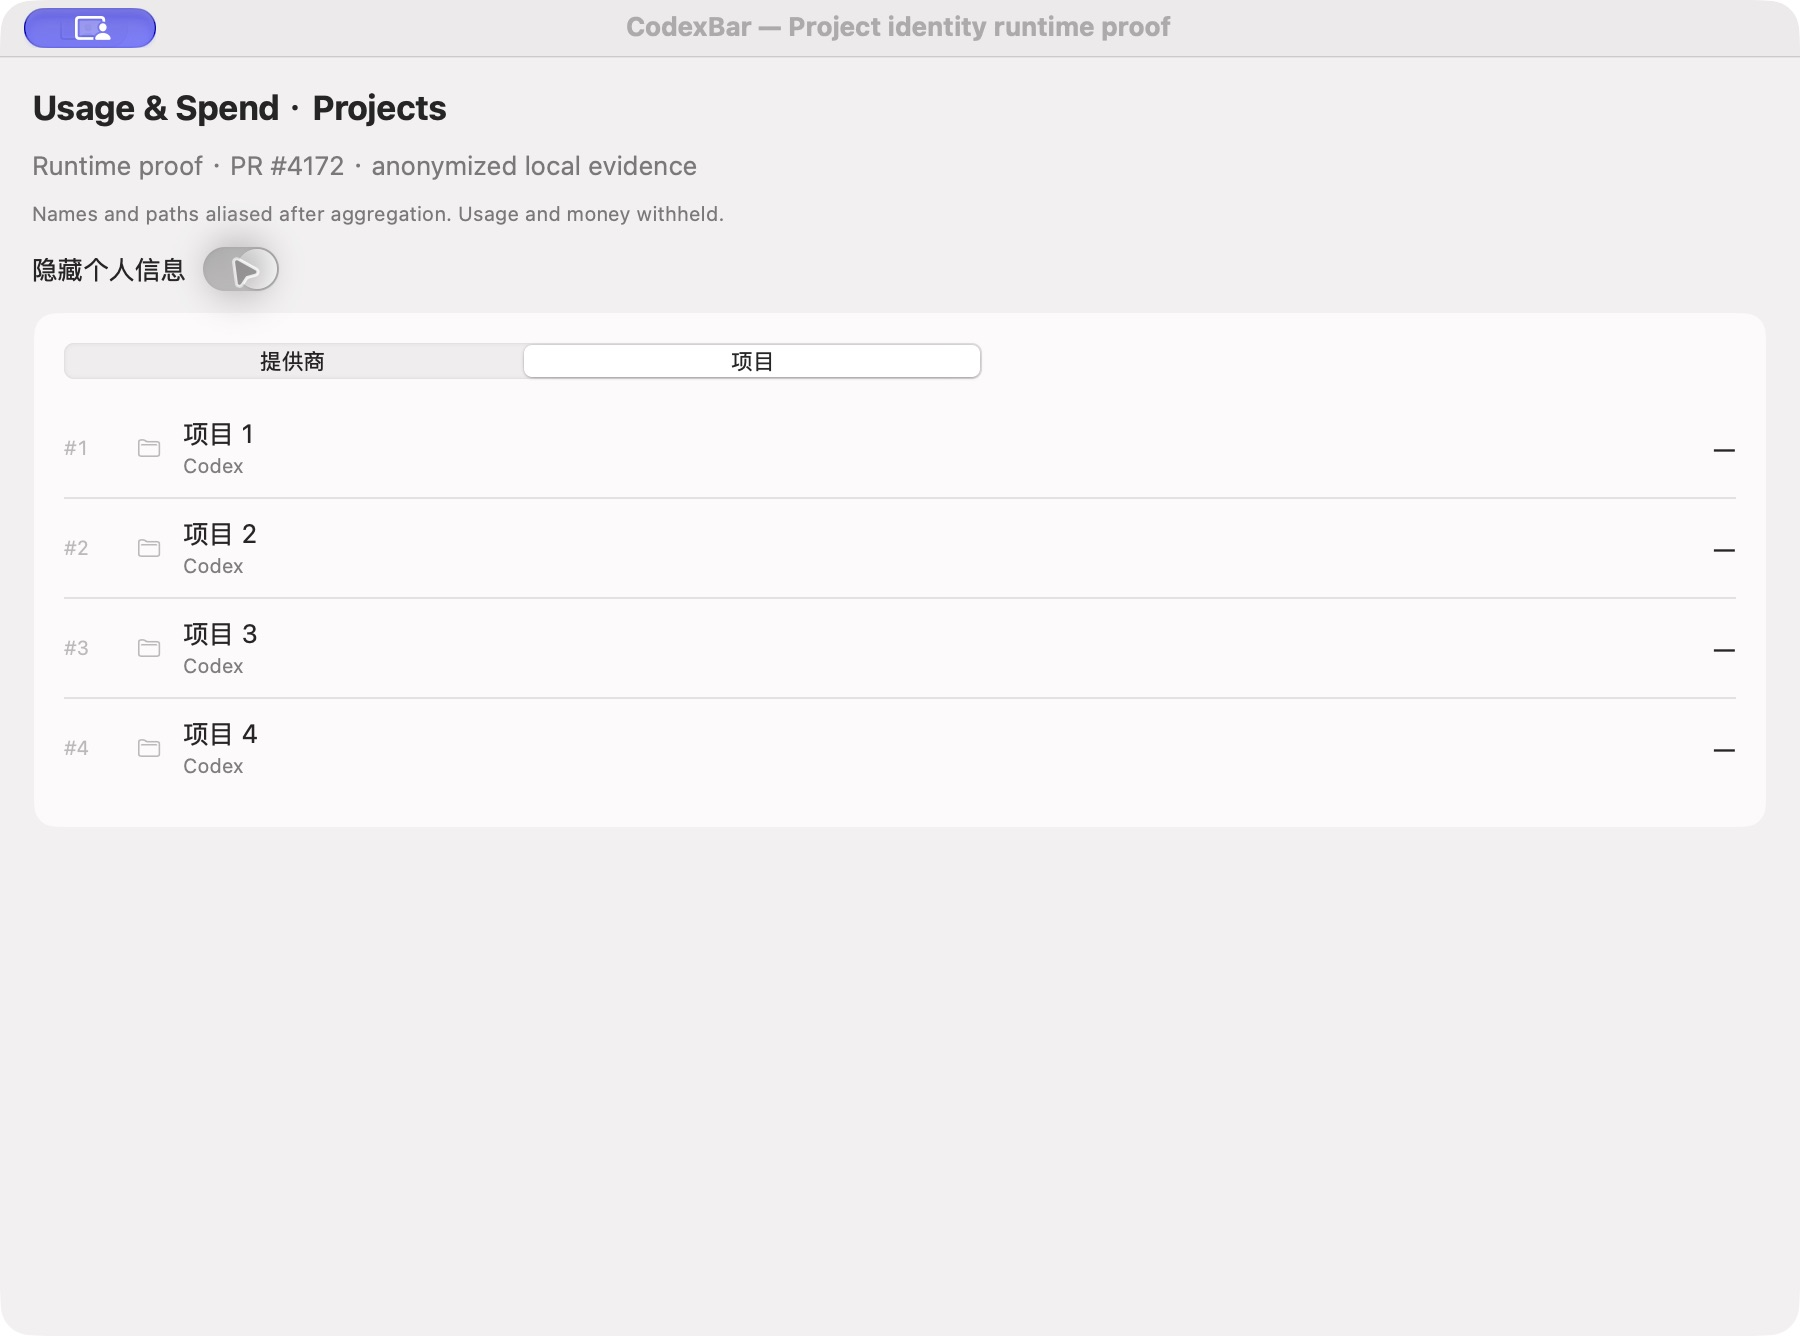
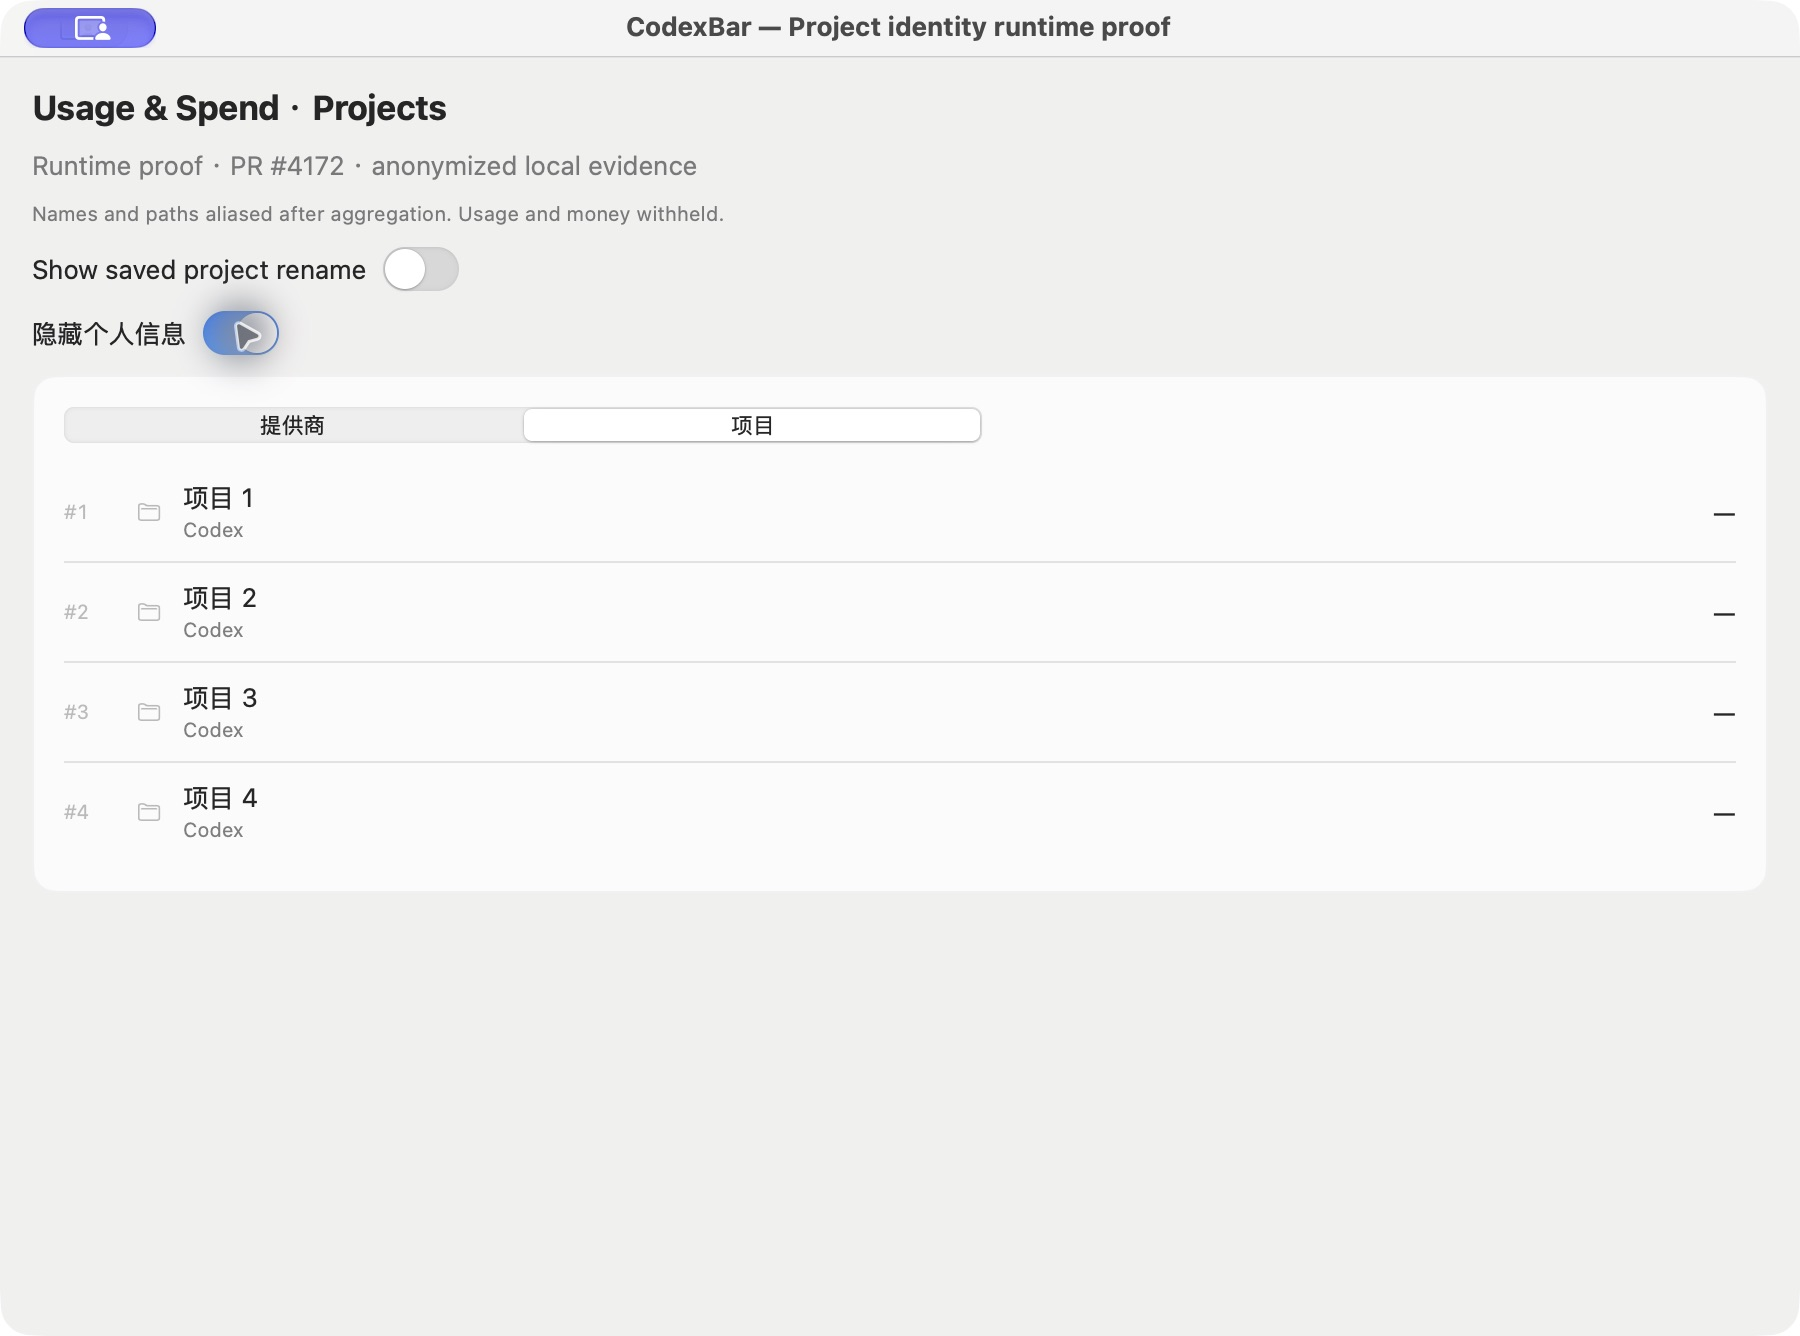
Add anonymized saved-name reload and accounting equality proof

diff --git a/SpendProjectNativeProof.swift b/SpendProjectNativeProof.swift
@@ -44,6 +44,39 @@ enum SpendProjectNativeProof {
                         .init(provider: .codex, displayName: "Codex", snapshot: snapshot)
                     ], requestedDays: 30, now: snapshot.updatedAt, calendar: calendar)
                     guard let actual = model.groups.first else { throw CocoaError(.fileReadUnknown) }
+                    let renamedHome = home
+                    let database = home.appendingPathComponent("state_5.sqlite")
+                    let originalMetadata = try Data(contentsOf: database)
+                    defer { try? originalMetadata.write(to: database, options: .atomic) }
+                    let renameProcess = Process()
+                    renameProcess.executableURL = URL(fileURLWithPath: "/usr/bin/sqlite3")
+                    renameProcess.arguments = [database.path, "UPDATE projects SET name = 'Verification Rename'"]
+                    renameProcess.standardOutput = Pipe()
+                    renameProcess.standardError = Pipe()
+                    try renameProcess.run()
+                    renameProcess.waitUntilExit()
+                    guard renameProcess.terminationStatus == 0 else { throw CocoaError(.fileWriteUnknown) }
+                    let renamedSnapshot = try await CostUsageFetcher(cacheRoot: self.root.appendingPathComponent("cache"), calendar: calendar)
+                        .loadTokenSnapshot(provider: .codex, environment: [:], forceRefresh: true,
+                                           codexHomePath: renamedHome.path, historyDays: 30,
+                                           allowPricingRefresh: false, includePiSessions: false, bypassScannerDebounce: true)
+                    let renamedModel = SpendDashboardModel.build(inputs: [
+                        .init(provider: .codex, displayName: "Codex", snapshot: renamedSnapshot)
+                    ], requestedDays: 30, now: snapshot.updatedAt, calendar: calendar)
+                    guard let renamedActual = renamedModel.groups.first else { throw CocoaError(.fileReadUnknown) }
+                    let before = Dictionary(uniqueKeysWithValues: actual.projects.map { ($0.id, $0) })
+                    let after = Dictionary(uniqueKeysWithValues: renamedActual.projects.map { ($0.id, $0) })
+                    let idsStable = Set(before.keys) == Set(after.keys)
+                    let metricsStable = idsStable && before.allSatisfy { id, row in
+                        after[id]?.totalTokens == row.totalTokens && after[id]?.totalCost == row.totalCost
+                    }
+                    let changedIDs = Set(before.keys.filter { before[$0]?.projectName != after[$0]?.projectName })
+                    let savedNameUpdated = !changedIDs.isEmpty && changedIDs.allSatisfy { after[$0]?.projectName == "Verification Rename" }
+                    try JSONSerialization.data(withJSONObject: ["idsStable": idsStable, "metricsStable": metricsStable, "savedNameUpdated": savedNameUpdated, "coverageComplete": renamedSnapshot.historyCoverageIsEstablished], options: [.sortedKeys])
+                        .write(to: self.root.appendingPathComponent("rename-check-diagnostics.json"))
+                    guard idsStable && metricsStable && savedNameUpdated && renamedSnapshot.historyCoverageIsEstablished else {
+                        throw CocoaError(.fileReadCorruptFile)
+                    }
                     let names = Array(Set(actual.projects.map(\.projectName))).sorted()
                     let aliases = Dictionary(uniqueKeysWithValues: names.enumerated().map { ($0.element, "Project \($0.offset + 1)") })
                     let rows = actual.projects.enumerated().map { index, row in
@@ -59,12 +92,31 @@ enum SpendProjectNativeProof {
                         coveredDayCount: actual.coveredDayCount, chartDomain: actual.chartDomain,
                         modelHistoryCompleteness: actual.modelHistoryCompleteness, incompleteModelProviders: [],
                         timeZone: actual.timeZone)
+                    let renamedRows = actual.projects.enumerated().map { index, row in
+                        SpendDashboardModel.ProjectRow(rank: row.rank, provider: row.provider,
+                            providerName: row.providerName, sourceID: row.sourceID,
+                            projectName: aliases[row.projectName]! + (changedIDs.contains(row.id) ? " (renamed)" : ""),
+                            path: row.path == nil ? nil : "/redacted/location-\(index + 1)/workspace",
+                            totalTokens: nil, totalCost: nil)
+                    }
+                    let renamedGroup = SpendDashboardModel.CurrencyGroup(currencyCode: actual.currencyCode,
+                        providers: actual.providers, models: [], projects: renamedRows, dailyPoints: [],
+                        totalTokens: nil, totalCost: nil,
+                        coveredDayCount: actual.coveredDayCount, chartDomain: actual.chartDomain,
+                        modelHistoryCompleteness: actual.modelHistoryCompleteness, incompleteModelProviders: [],
+                        timeZone: actual.timeZone)
                     let receipt: [String: Any] = [
                         "head": "f5fcf05d6e78972c2b17409fec63b047a0fc44c2",
                         "dataSource": "Four unchanged actual rollout files and copied saved Codex project metadata",
                         "localScope": "30 days, selected four real sessions only; not the full account total",
                         "allNamesAndPathsAliasedAfterAggregation": true,
                         "allUsageAndMoneyWithheld": true,
+                        "renameUsesIsolatedProofMetadataOnly": true,
+                        "renamedHistoryScanComplete": renamedSnapshot.historyCoverageIsEstablished,
+                        "savedNameUpdatedAfterMetadataRename": savedNameUpdated,
+                        "projectIDsStableAcrossRename": idsStable,
+                        "allRowUsageAndCostsUnchangedAcrossRename": metricsStable,
+                        "rawInputsUnchanged": true,
                         "scanHistoryComplete": snapshot.historyCoverageIsEstablished,
                         "projectRows": rows.map { ["name": $0.projectName, "path": $0.path ?? "", "tokens": $0.totalTokens.map { $0 as Any } ?? NSNull(), "cost": $0.totalCost.map { $0 as Any } ?? NSNull()] },
                         "sameLabelDistinctPaths": Set(rows.map(\.projectName)).count < rows.count,
@@ -74,7 +126,7 @@ enum SpendProjectNativeProof {
                     ]
                     try JSONSerialization.data(withJSONObject: receipt, options: [.prettyPrinted, .sortedKeys])
                         .write(to: self.root.appendingPathComponent("runtime-receipt-anonymized.json"))
-                    let hosting = NSHostingView(rootView: ProofView(group: group, root: self.root))
+                    let hosting = NSHostingView(rootView: ProofView(group: group, renamedGroup: renamedGroup, root: self.root))
                     hosting.sizingOptions = []
                     window.contentView = hosting
                     let available = NSScreen.main?.visibleFrame ?? NSRect(x: 0, y: 0, width: 1000, height: 750)
@@ -92,7 +144,9 @@ enum SpendProjectNativeProof {
 
     private struct ProofView: View {
         let group: SpendDashboardModel.CurrencyGroup
+        let renamedGroup: SpendDashboardModel.CurrencyGroup
         let root: URL
+        @State private var showRenamed = false
         @State private var hidePersonalInfo = false
         var body: some View {
             ScrollView {
@@ -100,13 +154,16 @@ enum SpendProjectNativeProof {
                 Text("Usage & Spend · Projects").font(.title2.bold())
                 Text("Runtime proof · PR #4172 · anonymized local evidence").foregroundStyle(.secondary)
                 Text("Names and paths aliased after aggregation. Usage and money withheld.").font(.caption).foregroundStyle(.secondary)
+                Toggle("Show saved project rename", isOn: self.$showRenamed)
+                    .toggleStyle(.switch)
+                    .accessibilityIdentifier("proof-show-rename")
                 Toggle("Hide personal information", isOn: self.$hidePersonalInfo)
                     .toggleStyle(.switch)
                     .accessibilityIdentifier("proof-hide-personal-info")
                     .onChange(of: self.hidePersonalInfo) { _, enabled in
                         try? Data("privacy_toggle=\(enabled)\n".utf8).write(to: self.root.appendingPathComponent(enabled ? "privacy-on.txt" : "privacy-off.txt"))
                     }
-                spendProjectNativeProofPanel(group: self.group, hidePersonalInfo: self.hidePersonalInfo)
+                spendProjectNativeProofPanel(group: self.showRenamed ? self.renamedGroup : self.group, hidePersonalInfo: self.hidePersonalInfo)
                 Spacer(minLength: 0)
             }.padding(16).frame(maxWidth: .infinity, alignment: .topLeading)
             }

diff --git a/README.md b/README.md
@@ -14,6 +14,18 @@ This evidence is derived from the existing local runtime verification, with priv
 
 ![Native privacy switch enabled](projects-private.png)
 
+## Additional saved-name rename verification
+
+The same fresh executable loads the original isolated proof home, then updates only the copied proof metadata to a generic verification label and reloads the **same** home through production `CostUsageFetcher`. The copied metadata is restored on completion. Live project metadata is never modified, and session inputs are unchanged.
+
+Before redaction, every production project row is compared by its real stable ID. The assertions require the complete ID set, token values, and optional cost values to be identical across the reload, and require all changed saved names to match the generic verification label. Both scans must establish complete coverage. The public receipt publishes only pass/fail values, not real identities or metrics.
+
+The native comparison switch shows the before and after snapshots, both already computed through production code. Changed names are presented as the original generic alias plus `(renamed)`; this is an explicit privacy projection, not the literal saved name. The screenshot establishes the resulting panel presentation, while the included source and receipt establish the lookup and equality checks.
+
+![Anonymized saved-name rename result](projects-renamed.png)
+
+This is a metadata reload/rename check within one isolated proof process, not a full restart of normal application preferences.
+
 ## What was redacted
 
 Project labels use consistent generic aliases. Every directory is replaced by an unrelated `/redacted/location-N/workspace` alias, retaining only the distinctions needed for the regression. All token and cost values are withheld (`null` in the receipt, dashes in the UI). Raw rollouts, database files, source filenames, session IDs, file sizes, account details, original identifiers, and the alias mapping are not included.
@@ -26,8 +38,8 @@ The production `CostUsageFetcher` and `SpendDashboardModel.build` processed loca
 
 An opt-in debug launcher wraps the unchanged production `SpendDashboardDetailPanel` and `SpendProjectRows`. Only the output projection used for public presentation is anonymized. This is isolated native panel verification, not a normal-launch account/preferences probe. The launcher and hook patch are provided for inspection and are not in the production PR. A fresh debug executable was built and its separate proof bundle passed ad-hoc signature verification.
 
-`runtime-receipt.json`, `verification.json`, and the initial/private/restored accessibility captures document the checks. Because metrics are withheld, these public screenshots do not prove numeric accounting equality; that remains covered by the regression tests and local verification.
+`runtime-receipt.json`, `verification.json`, and the initial/private/restored accessibility captures document the checks. Because metrics are withheld, these public screenshots do not prove numeric accounting equality; the before/after equality checks are instead recorded as booleans in the runtime receipt, alongside the regression tests.
 
-For reproduction, check out the referenced head, apply `launch-hook.patch`, and copy `SpendProjectNativeProof.swift` into `Sources/CodexBar`. Use a private isolated proof root with your own history/metadata and configure its path through the proof bundle's `CodexBarProjectProofRoot` key. Keep raw inputs and mappings local. Wait for complete scan coverage before capturing.
+For reproduction, check out the referenced head, apply `launch-hook.patch`, and copy `SpendProjectNativeProof.swift` into `Sources/CodexBar`. Use an expendable private isolated proof root with copies of your own history/metadata and configure its path through the proof bundle's `CodexBarProjectProofRoot` key. Keep raw inputs and mappings local. Wait for complete scan coverage before capturing.
 
 This replacement supersedes the withdrawn unredacted evidence. Only this independent anonymized commit should be linked publicly.
